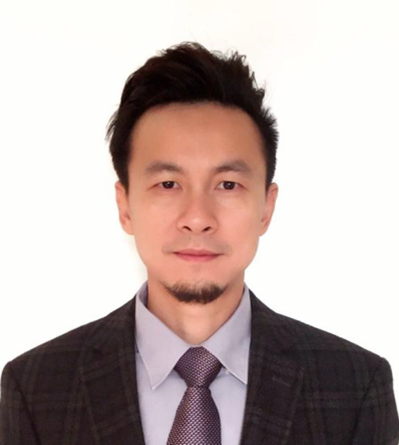
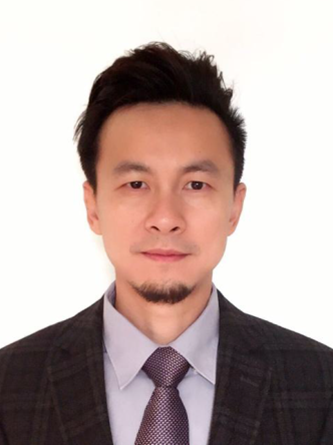
修改iccafe

diff --git a/web/index.html b/web/index.html
@@ -365,10 +365,10 @@
             <h1 class="n-block text-center n-mb5">
                 团队成员
             </h1>
-            <ul class="n-coreteam n-table n-w700">
+            <ul class="n-coreteam n-table n-w800">
                 <li>
                     <div class="n-people text-center md-trigger" data-modal="modal-34">
-                        <img alt="NEO" src="./static/people/zhang.png" width="246">
+                        <img alt="NEO" src="./static/people/zhang.jpg" width="246">
                             <h3 class="n-block">
                                 张洪为
                             </h3>
@@ -485,7 +485,7 @@
                                 谢志峰
                             </h3>
                             <span class="n-block">
-                                资深顾问
+                                上海矽睿科技有限公司创始人
                             </span>
                         </img>
                     </div>
@@ -526,7 +526,7 @@
             <ul class="n-coreteam n-table n-w700">
                 <li>
                     <div class="n-people text-center md-trigger" data-modal="modal-10">
-                        <img alt="金沙江创业投资" src="./static/jsj.png" width="246">
+                        <img alt="金沙江创业投资" src="./static/timg.png" width="246">
                             <h3 class="n-block">
                                 芯汇投资
                             </h3>
@@ -538,13 +538,10 @@
                 </li>
             </ul>
         </div>
-        <!--投资人与顾问-->
-        <!--<div id="tzgw" class="n-mb-big"></div>-->
-        <!--金沙江创业投资-->
         <div class="md-modal md-effect-1" id="modal-10">
             <div class="n-profile">
                 <p class="n-text-indent">
-                    GSR Ventures focuses on investing based in China and faces high and new technology start-ups in the global market. GSR Ventures currently manages more than $1 billion in funds and has a long-term strategic partnership with Mayfield Fund (founded in 1969), the "oldest" venture capital fund in Silicon Valley. GSR Ventures has offices in Beijing, China and Silicon Valley, USA. It has invested in Qunar, Lily network, Didi Taxi, Xiaohongshu, Inke, ele.me, OFO, and other well-known start-up enterprises, and it is the first-tier investment fund in China.
+                    IC咖啡，一种新型的高科技产业“链”俱乐部。由芯片、系统软硬件、IT互联、媒体、产业分析及科技投资等领域的高层管理且热心的业内资深人士共同组建。IC咖啡旨在通过汇聚产业内资深菁英人士，集聚大家的智慧与资源，共同打造一个高科技产业链的线下社交平台、科技传播平台、创新创业孵化平台及投融资资本平台，以促进中国高科技产业的发展。
                 </p>
                 <button class="md-close btn-sm btn-primary">
                     Close me!
